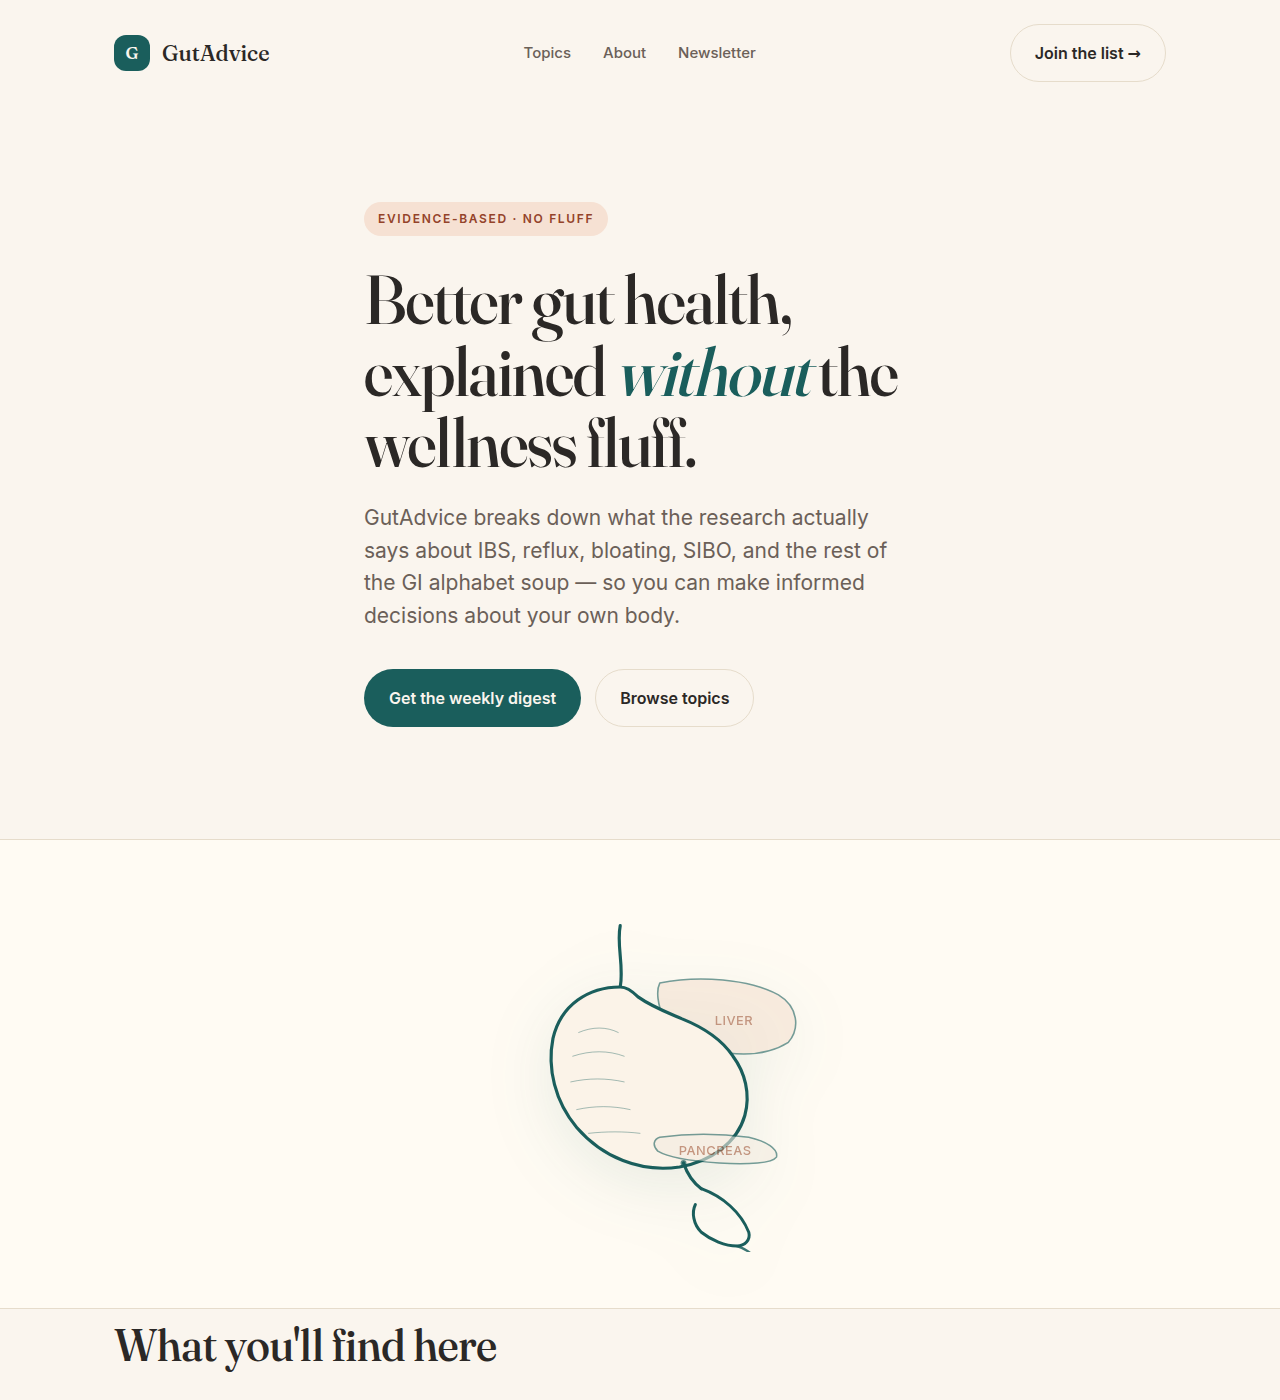
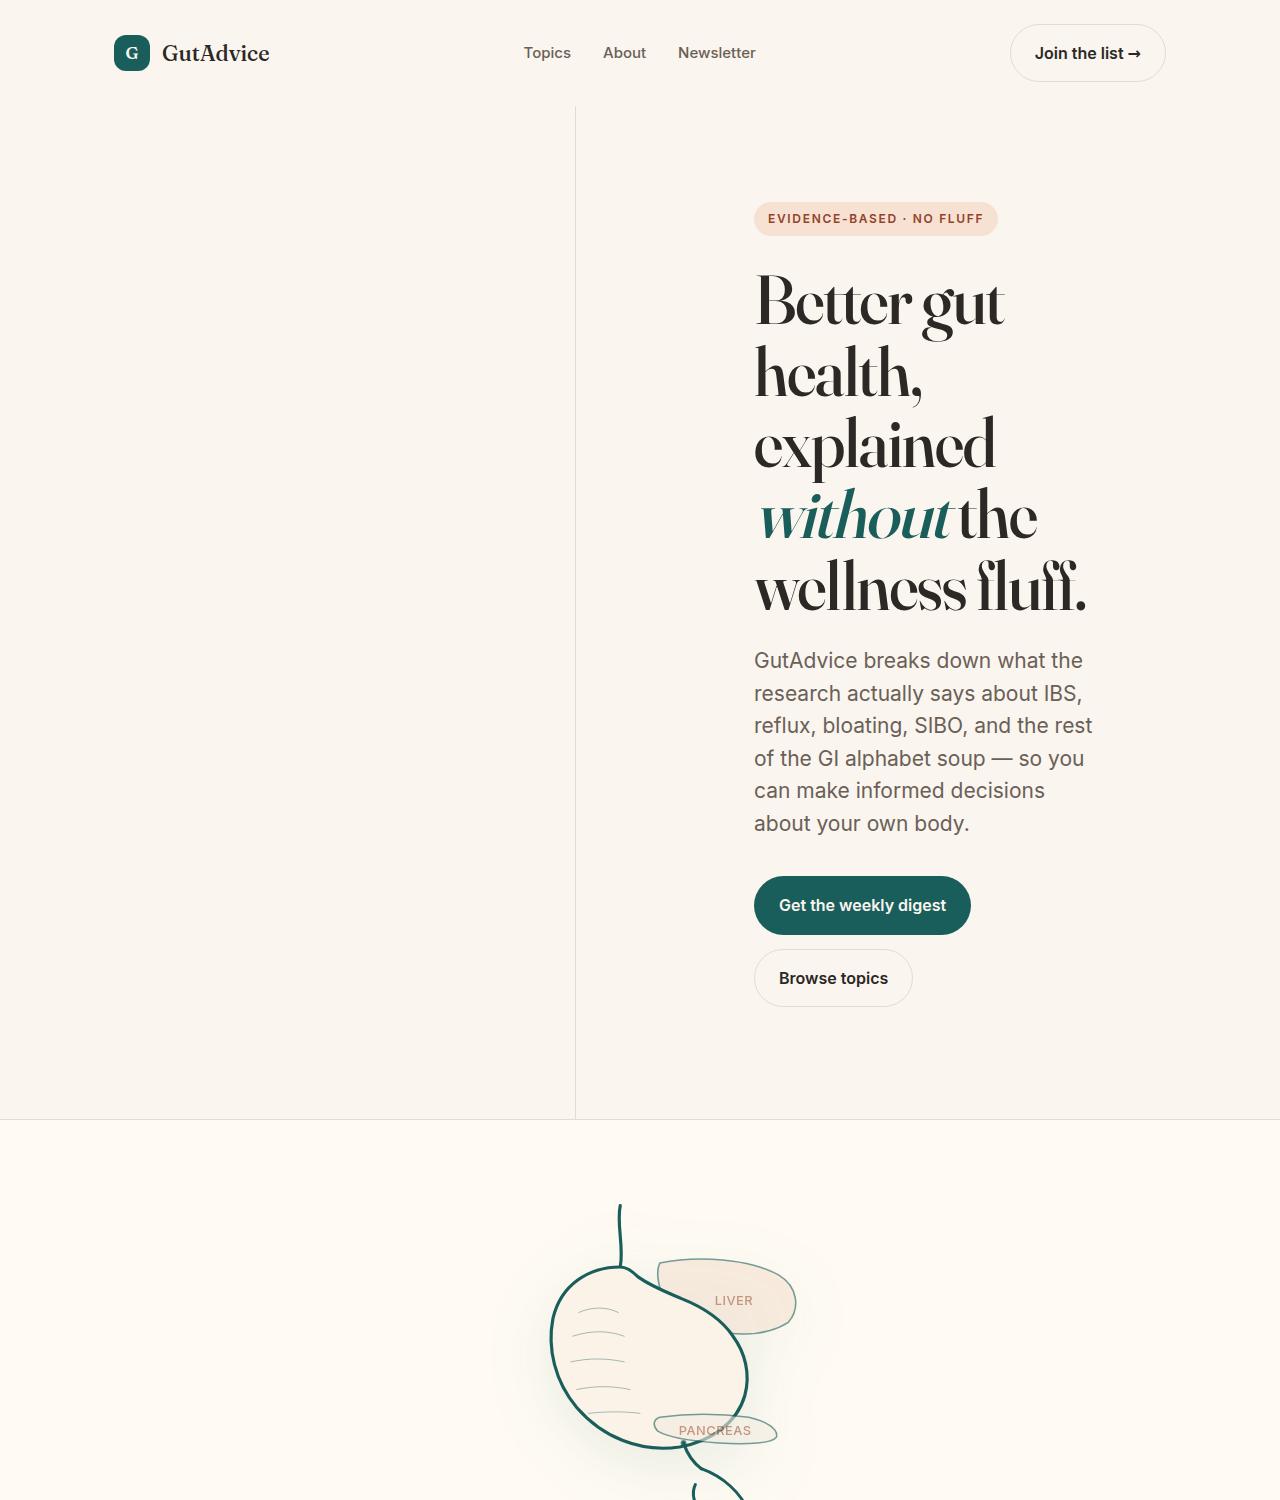
V1.3: hero becomes a half-width block on the right side
Per founder reply on SHA-24 (2026-09-11 02:15 UTC): 'hero needs to be
on the right side'

In V1.2 the hero was full-width with the text content right-positioned
inside it. The founder's 'on the right side' feedback suggests they
want the SECTION itself to be on the right, not just the text.

This commit:
  - Makes the .hero section half-width on desktop (55% of the viewport)
    with margin-left: auto so it sits on the right side of the page
  - Reduces .hero-inner max-width from 600px to 460px so the text is
    more tightly compressed to the right
  - Adds a thin vertical accent rule at the left edge of the hero
    using a ::before pseudo-element
  - On mobile, the hero expands to full-width and the vertical rule
    is hidden

  - The illustration below the hero is unchanged
  - The nav still spans the full page width

diff --git a/site.css b/site.css
@@ -97,23 +97,45 @@ img, svg { max-width: 100%; display: block; }
 .nav-cta { font-size: 15px; }
 
 /* ---- Hero ----
-   Single full-width block. Text content is positioned on the right side
-   of the page via a 2-column grid where the text occupies the right column
-   and the left column is empty (intentional negative space). No illustration
-   in the hero — the illustration lives in the section below. */
+   V1.3: hero is a HALF-WIDTH block on the right side of the page.
+   On desktop, the hero occupies the right 50% of the viewport; the
+   left 50% is intentionally empty negative space (cream background,
+   with a thin vertical accent rule at the boundary).
+   On mobile, the hero expands to full width. */
 .hero {
+  width: 100%;
   padding: 72px 0 80px;
   position: relative;
   z-index: 1;
 }
+@media (min-width: 760px) {
+  .hero {
+    width: 55%;
+    margin-left: auto;
+    padding: 96px 0 112px;
+  }
+  /* Thin vertical accent rule at the left edge of the hero (the
+     boundary between the empty left half and the hero) */
+  .hero::before {
+    content: "";
+    position: absolute;
+    top: 0;
+    bottom: 0;
+    left: -1px;
+    width: 1px;
+    background: var(--border);
+  }
+}
+
 .hero-inner {
-  max-width: 560px;
+  max-width: 460px;
   margin-left: auto;
+  margin-right: auto;
+  padding: 0 40px;
   text-align: left;
 }
 @media (min-width: 760px) {
-  .hero { padding: 96px 0 112px; }
-  .hero-inner { max-width: 600px; margin-left: auto; }
+  .hero-inner { max-width: 460px; padding: 0 56px; }
 }
 
 .eyebrow {
